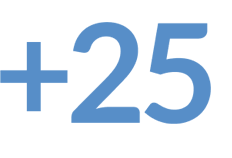
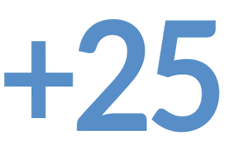
fix color img, correción textos

Changed region(s): [[0.3017, 0.1013, 0.9655, 0.8608], [0.0, 0.2532, 0.3319, 0.7595]]

diff --git a/SAPma.html b/SAPma.html
@@ -180,7 +180,7 @@
     <section class="secHIS">
         <div class="infoicons SAPma">
             <h2>
-                Aplicación web para tareas administrativas de financiadores del área de salud. Control absoluto sobre padrones de afiliados y prestadores de acuerdo a las características definidas por el administrador.
+                Aplicación web para tareas administrativas de financiadores del área de salud. <br><br> Control absoluto sobre padrones de afiliados y prestadores de acuerdo a las características definidas por el administrador.
             </h2>
             <div class="boxinfo">
                 <img src="img/Vectores-SAPma/diagrama.png">
